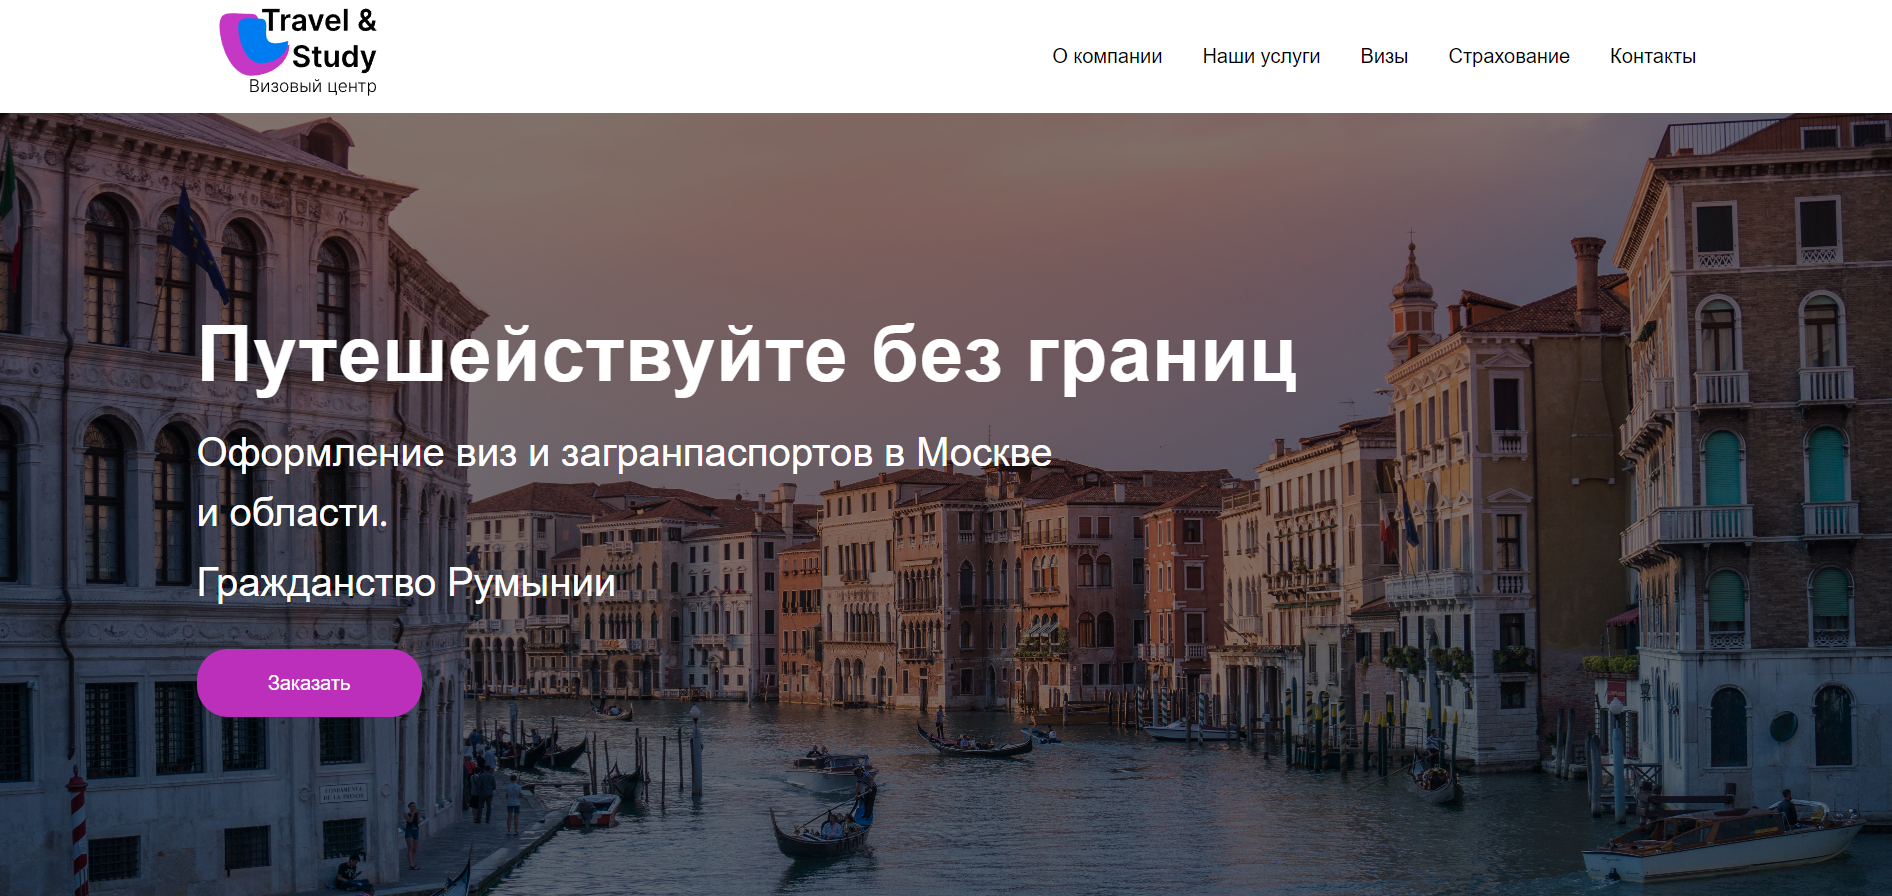
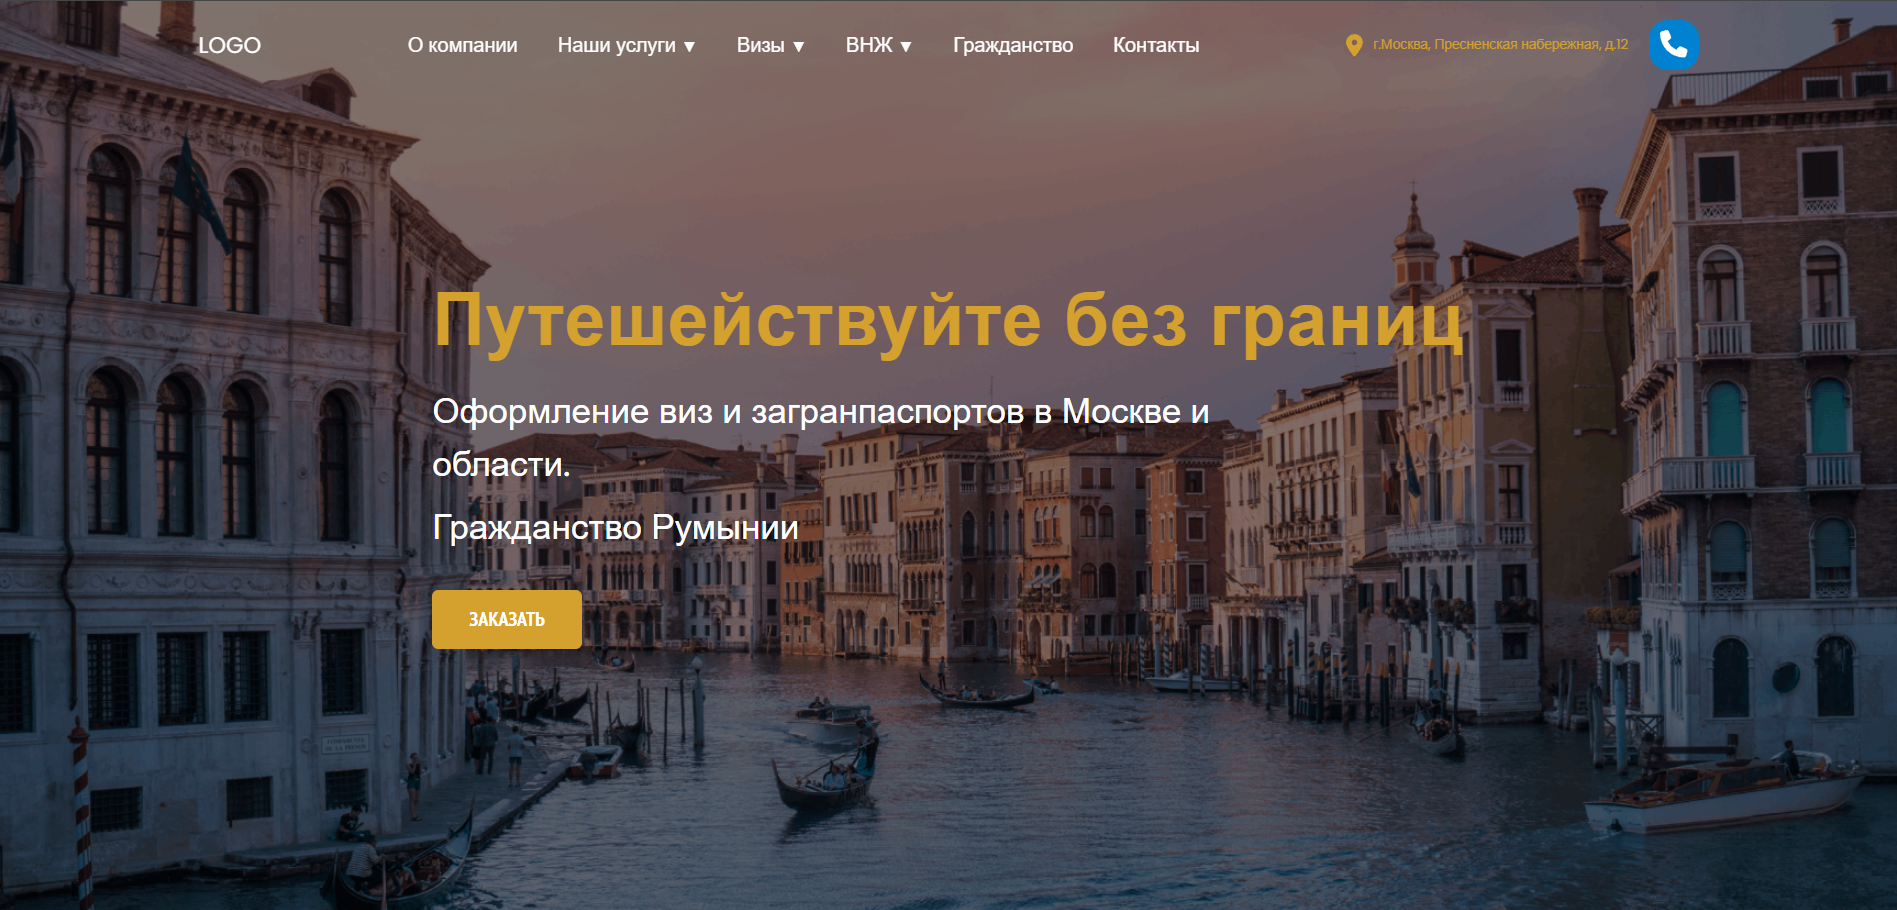
some changes

diff --git a/projects.js b/projects.js
@@ -2,17 +2,17 @@
 
 const projects = [
   {
-    title: "ReNoise (in progress)",
-    languages: "FULL-STACK Next.js TypeScript",
+    title: "ReNoise ",
+    languages: "Next.js TypeScript",
     description:
       "ReNoise is an interactive web application that I have designed to offer users an immersive experience with the soothing sounds of nature. This is a full-stack project, developed using modern web technologies and frameworks, ensuring a pleasant and intuitive user experience. In ReNoise, users have the capability to register and log into their accounts, providing a personalized experience. Looking ahead, the application is poised to introduce subscription plans. These plans will unlock more features and enhance the capabilities of the web application, further enriching the user experience with additional sounds and functionalities.",
-    imageSrc: "Images/Ren.png",
+    imageSrc: "Images/ReNoise.png",
     iframeSrc: "https://re-noise-my.vercel.app/soundPage",
     gitLink: "https://github.com/mokhammad-kodehode/ReNoiseTwo.git",
     pageSrc: "https://re-noise-my.vercel.app/soundPage",
   },
   {
-    title: "Car rental  (in progress)",
+    title: "Car rental",
     languages: "MERN-STACK",
     description:
       "The MERN Stack Car Rental Marketplace is a dynamic web application designed to facilitate the seamless sharing of cars among users. This project showcases my proficiency in utilizing the MERN (MongoDB, Express.js, React, and Node.js) technology stack to create a user-friendly and efficient solution for car rental and sharing.",

diff --git a/projects.css b/projects.css
@@ -795,20 +795,20 @@ iframe {
 
 
 .btn-close {
-  border: none;
+   border: none;
   top: 10px;
-  right: 30px;
+  right: 10px;
   display: block;
-  color: white;
+  color: rgba(255, 255, 255, 0.945);
   text-align: center;
-  font-size: 18px;
+  font-size: 14px;
   position: absolute;
   width: 30px;
   height: 30px;
   border-radius: 50%;
-  background-color: rgba(32, 28, 28, 0.8);
+  background-color: rgba(32, 28, 28);
   cursor: pointer;
-  z-index: 2;
+  z-index: 3;
 }
 
 

diff --git a/styles.css b/styles.css
@@ -152,6 +152,8 @@ Resets margins and paddings
   justify-content: flex-end;
   align-items: center;
   gap: .5rem;
+
+
 }
 
 .settings-button {
@@ -179,7 +181,18 @@ Resets margins and paddings
   justify-content: center;
   align-items:center ;
   margin-left: 10px;
+}
 
+@keyframes settings  {
+  0% {
+    opacity: 0;
+    transform: translate(-25px);
+  }
+
+  100% {
+    opacity: 1;
+    transform: translate(0deg);
+  }
 }
 
 .fa-cog {
